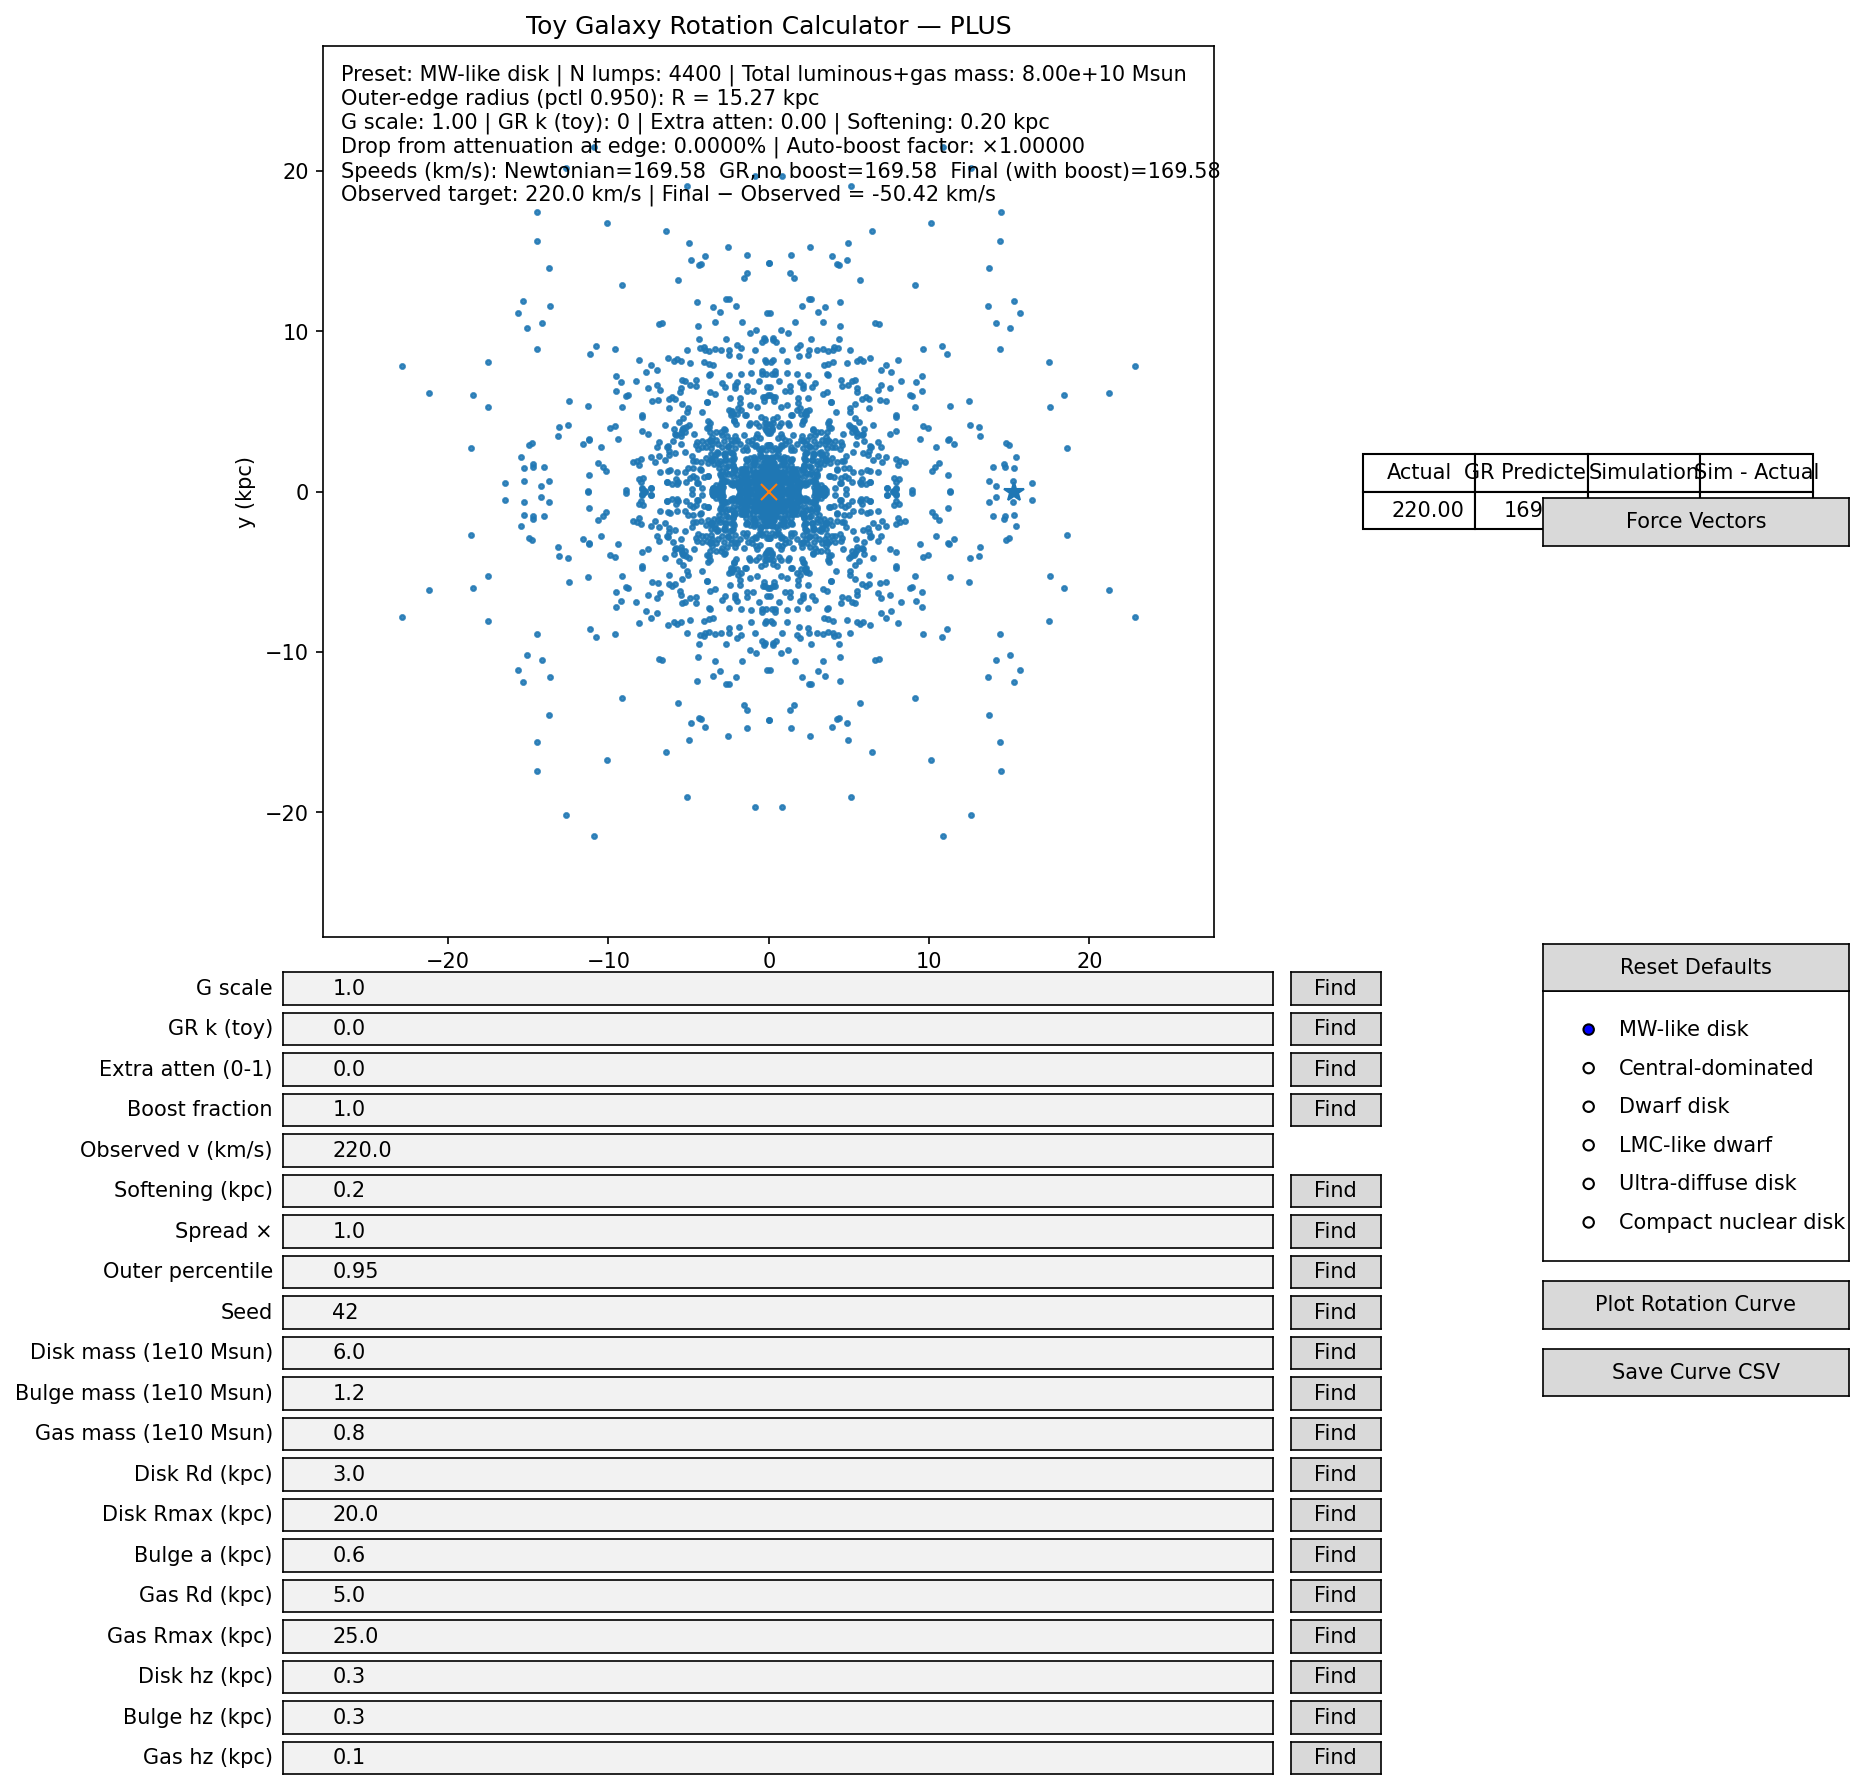
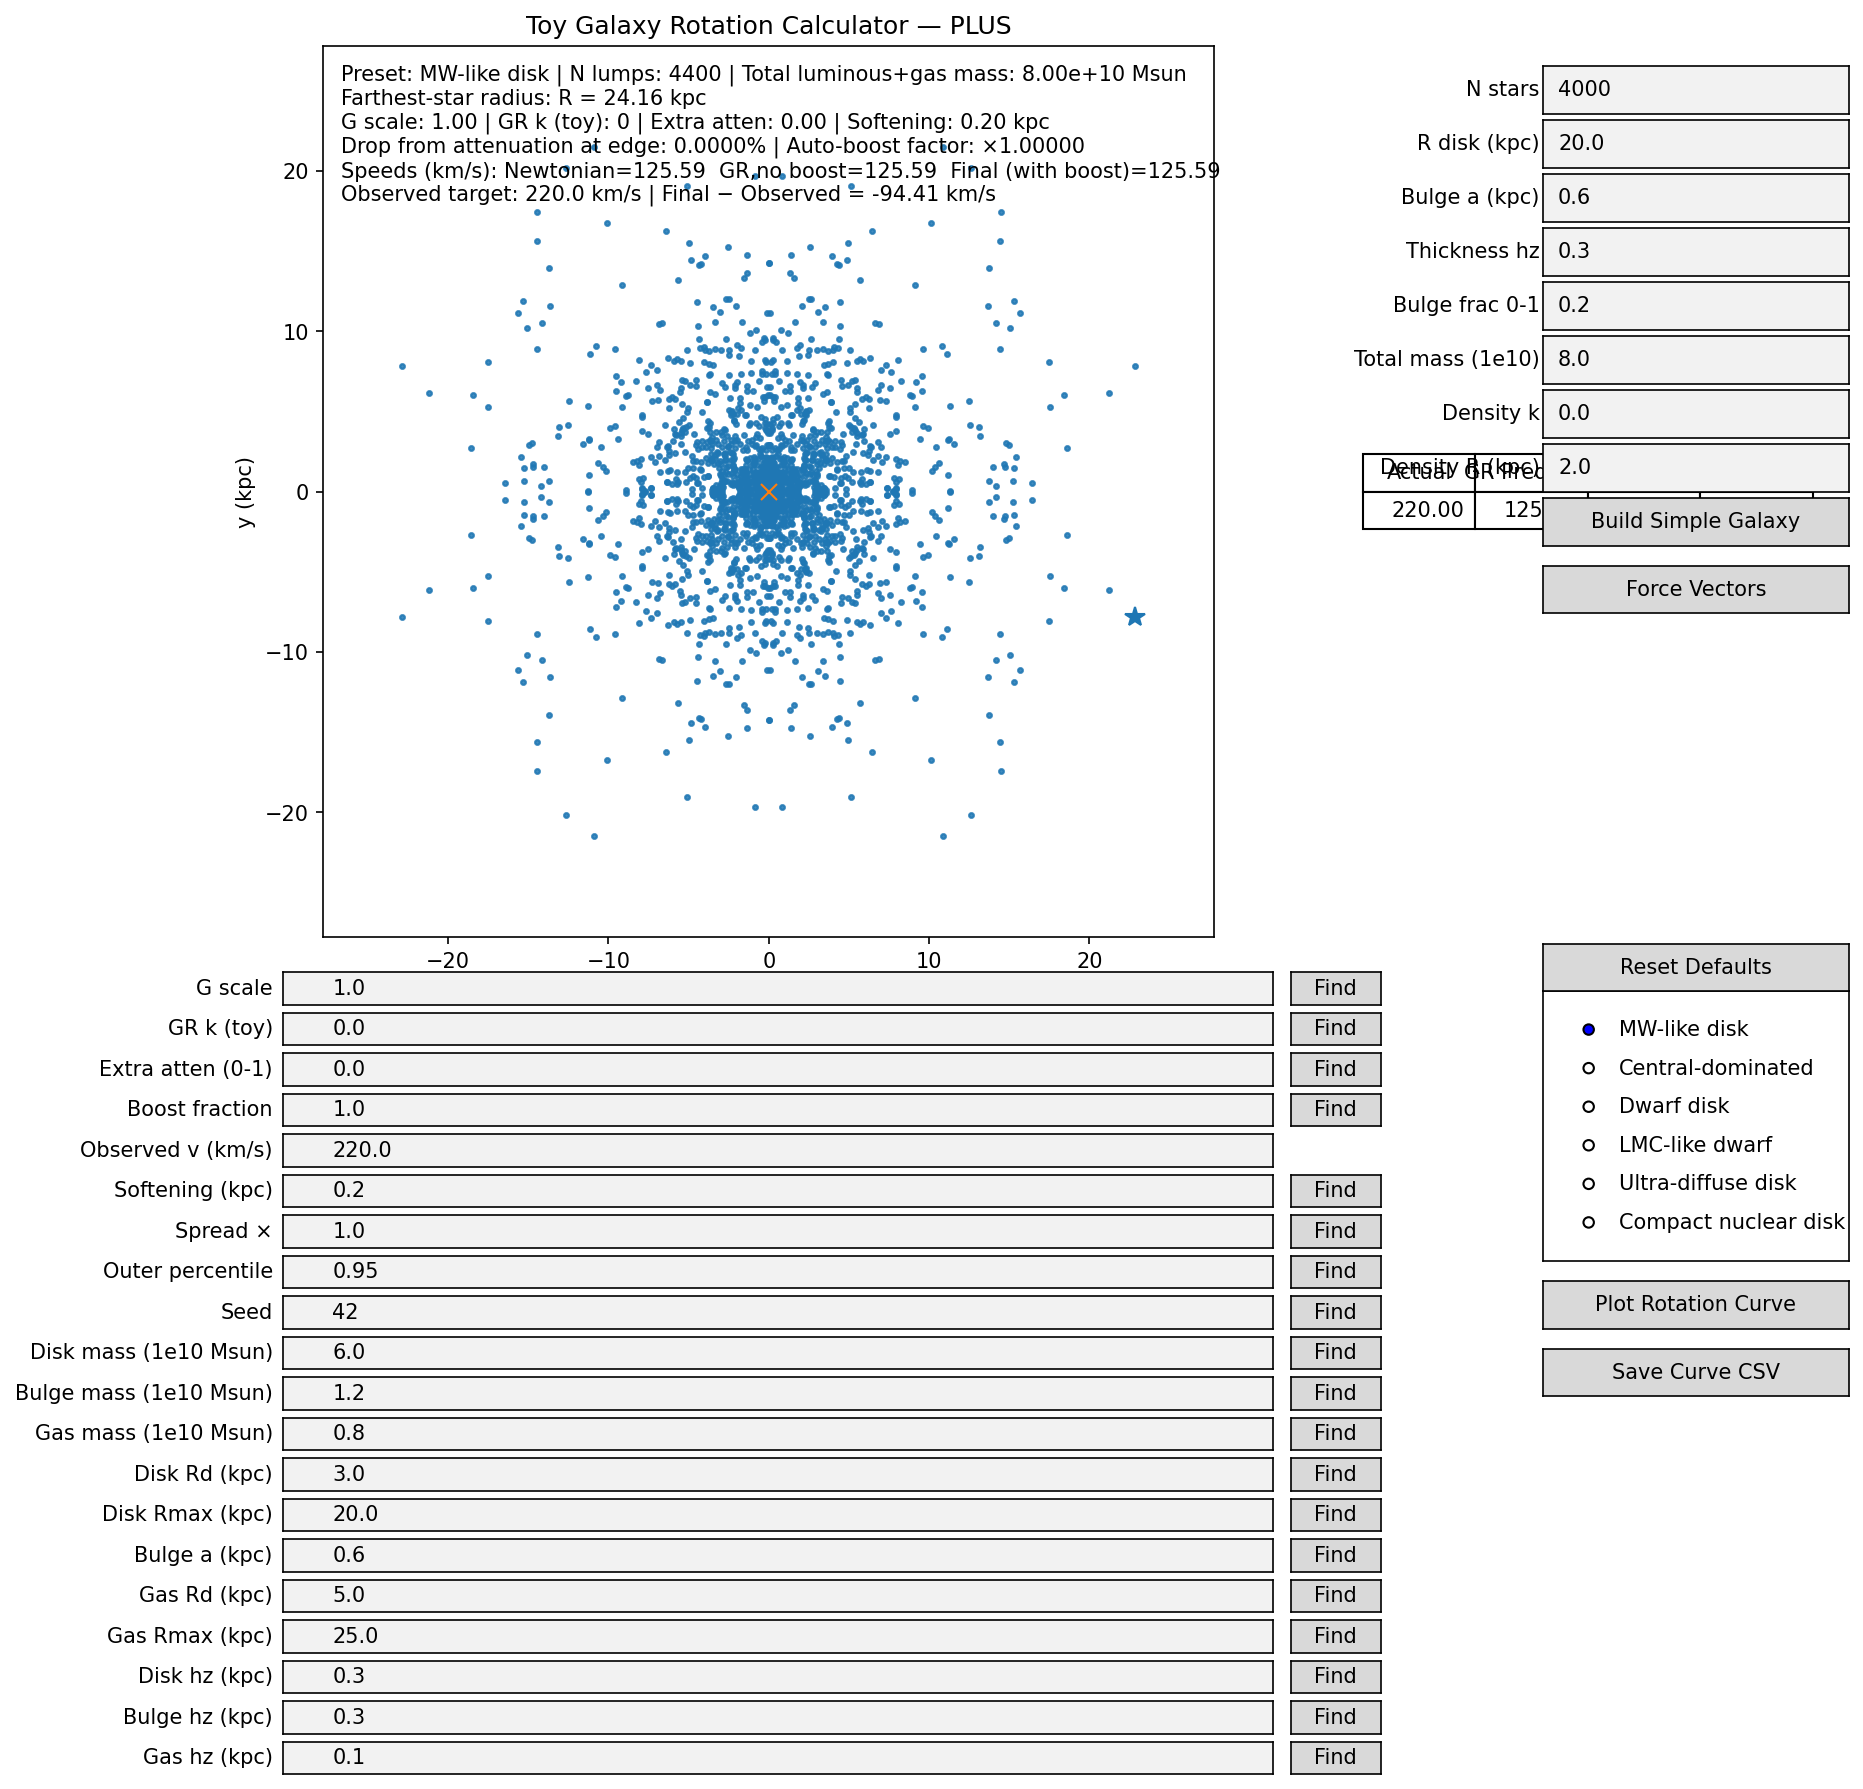
Simplified controls: add simple galaxy builder (N stars, disk radius, bulge a, thickness, bulge fraction, total mass). Auto-select farthest star as test point. Add density-based G modifier (k, R) used in speed, vectors, and rotation curve. Tweaked vectors button position.

diff --git a/toy_galaxy_rotation_calculator_plus.py b/toy_galaxy_rotation_calculator_plus.py
@@ -379,7 +379,7 @@ def main():
     ax_btn_curve = fig.add_axes([0.80, 0.03, 0.17, 0.035]); btn_curve = Button(ax_btn_curve, 'Plot Rotation Curve')
     ax_btn_save  = fig.add_axes([0.80, -0.02, 0.17, 0.035]); btn_save  = Button(ax_btn_save,  'Save Curve CSV')
     # Open vectors table window
-    ax_btn_vectors = fig.add_axes([0.80, 0.61, 0.17, 0.035]); btn_vectors = Button(ax_btn_vectors, 'Force Vectors')
+    ax_btn_vectors = fig.add_axes([0.80, 0.56, 0.17, 0.035]); btn_vectors = Button(ax_btn_vectors, 'Force Vectors')
     # Reset to defaults button
     ax_btn_reset = fig.add_axes([0.80, 0.28, 0.17, 0.035]); btn_reset = Button(ax_btn_reset, 'Reset Defaults')
     
@@ -408,6 +408,75 @@ def main():
         refresh_main()
 
     btn_reset.on_clicked(reset_defaults)
+
+    # ----- Simple controls (right column) -----
+    # Defaults for simple mode
+    simple_defaults = dict(Nstars=4000, Rdisk=20.0, BulgeA=0.6, Hz=0.3, BulgeFrac=0.2, Mtot1e10=8.0, DensK=0.0, DensR=2.0)
+    ax_sN  = fig.add_axes([0.80, 0.93, 0.17, 0.035]); tb_sN  = TextBox(ax_sN,  'N stars',        initial=str(simple_defaults['Nstars']))
+    ax_sR  = fig.add_axes([0.80, 0.89, 0.17, 0.035]); tb_sR  = TextBox(ax_sR,  'R disk (kpc)',   initial=str(simple_defaults['Rdisk']))
+    ax_sBa = fig.add_axes([0.80, 0.85, 0.17, 0.035]); tb_sBa = TextBox(ax_sBa, 'Bulge a (kpc)',  initial=str(simple_defaults['BulgeA']))
+    ax_sHz = fig.add_axes([0.80, 0.81, 0.17, 0.035]); tb_sHz = TextBox(ax_sHz, 'Thickness hz',   initial=str(simple_defaults['Hz']))
+    ax_sBf = fig.add_axes([0.80, 0.77, 0.17, 0.035]); tb_sBf = TextBox(ax_sBf, 'Bulge frac 0-1', initial=str(simple_defaults['BulgeFrac']))
+    ax_sMt = fig.add_axes([0.80, 0.73, 0.17, 0.035]); tb_sMt = TextBox(ax_sMt, 'Total mass (1e10)', initial=str(simple_defaults['Mtot1e10']))
+    ax_sDk = fig.add_axes([0.80, 0.69, 0.17, 0.035]); tb_sDk = TextBox(ax_sDk, 'Density k',      initial=str(simple_defaults['DensK']))
+    ax_sDr = fig.add_axes([0.80, 0.65, 0.17, 0.035]); tb_sDr = TextBox(ax_sDr, 'Density R (kpc)',initial=str(simple_defaults['DensR']))
+    ax_sBuild = fig.add_axes([0.80, 0.61, 0.17, 0.035]); btn_sBuild = Button(ax_sBuild, 'Build Simple Galaxy')
+
+    s_Nstars   = TBWrapper(tb_sN,  parse=int,   clamp=(8, 100000), default=simple_defaults['Nstars'])
+    s_Rdisk    = TBWrapper(tb_sR,  parse=float, clamp=(0.5, 100.0), default=simple_defaults['Rdisk'])
+    s_BulgeA   = TBWrapper(tb_sBa, parse=float, clamp=(0.02, 10.0), default=simple_defaults['BulgeA'])
+    s_Hz       = TBWrapper(tb_sHz, parse=float, clamp=(0.01, 3.0),  default=simple_defaults['Hz'])
+    s_BulgeFrac= TBWrapper(tb_sBf, parse=float, clamp=(0.0, 1.0),   default=simple_defaults['BulgeFrac'])
+    s_Mtot1e10 = TBWrapper(tb_sMt, parse=float, clamp=(0.01, 200.0),default=simple_defaults['Mtot1e10'])
+    s_DensK    = TBWrapper(tb_sDk, parse=float, clamp=(0.0, 5.0),   default=simple_defaults['DensK'])
+    s_DensR    = TBWrapper(tb_sDr, parse=float, clamp=(0.05, 10.0), default=simple_defaults['DensR'])
+
+    def build_simple_galaxy(_evt=None):
+        nonlocal pos, masses, COM, R_all, R_edge, test_point
+        N_total = int(s_Nstars.val)
+        R_disk = float(s_Rdisk.val)
+        a_bulge = float(s_BulgeA.val)
+        hz = float(s_Hz.val)
+        f_bulge = float(s_BulgeFrac.val)
+        N_bulge = max(0, min(N_total, int(round(N_total * f_bulge))))
+        N_disk  = max(0, N_total - N_bulge)
+        rng_seed = int(s_seed.val)
+        rng = np.random.default_rng(rng_seed)
+        pos_list = []; mass_list = []
+        if N_disk > 0:
+            N_base_d = max(1, N_disk // 8)
+            Rd = max(0.05, R_disk / 3.0)
+            pos_d = sample_exponential_disk_3d(N_base_d, Rd, R_disk, hz, rng)
+            if len(pos_d): pos_list.append(pos_d)
+        if N_bulge > 0:
+            N_base_b = max(1, N_bulge // 8)
+            Rmax_b = min(R_disk, max(2.0, 3.0*a_bulge))
+            pos_b = sample_plummer_bulge_3d(N_base_b, a_bulge, Rmax_b, hz, rng)
+            if len(pos_b): pos_list.append(pos_b)
+        if pos_list:
+            pos = np.vstack(pos_list)
+            Mtot = float(s_Mtot1e10.val) * 1e10
+            masses = np.full(len(pos), Mtot / len(pos))
+        else:
+            pos = np.zeros((0,3)); masses = np.zeros((0,))
+        if masses.sum() > 0 and len(masses) > 0:
+            COM = (pos * masses[:, None]).sum(axis=0) / masses.sum()
+            R_all = np.linalg.norm(pos - COM, axis=1)
+            test_point = pos[int(np.argmax(R_all))]
+            R_edge = float(np.max(R_all))
+        else:
+            COM = np.zeros(3); R_all = np.array([1.0]); test_point = np.zeros(3); R_edge = 1.0
+        # Update visuals without triggering advanced rebuild
+        if len(masses) > 0:
+            galaxy_scatter.set_offsets(pos[:, :2])
+            test_star_plot.set_data([test_point[0]], [test_point[1]])
+            com_plot.set_data([COM[0]], [COM[1]])
+            R_plot = np.max(np.linalg.norm(pos[:, :2] - COM[:2], axis=1)) * 1.15 + 1e-3
+            ax.set_xlim(COM[0] - R_plot, COM[0] + R_plot)
+            ax.set_ylim(COM[1] - R_plot, COM[1] + R_plot)
+        update_readout(); fig.canvas.draw_idle(); refresh_rotation_curve()
+
+    btn_sBuild.on_clicked(build_simple_galaxy)
 
     # ---- Finder logic to match Simulation to Actual (Observed v) ----
     def _eval_error_for(wrapper, candidate, is_structural):
@@ -532,17 +601,49 @@ def main():
             hz_disk=float(s_hzd.val), hz_bulge=float(s_hzb.val), hz_gas=float(s_hzg.val))
         pos, masses = make_galaxy_components(int(s_seed.val), float(s_spread.val), **params)
         if masses.sum() <= 0 or len(masses) == 0:
-            COM = np.zeros(3); R_all = np.array([1.0])
+            COM = np.zeros(3); R_all = np.array([1.0]); test_point = np.zeros(3)
         else:
             COM = (pos * masses[:, None]).sum(axis=0) / masses.sum()
-            R_all = np.linalg.norm(pos[:, :2] - COM[:2], axis=1)
-        R_edge = np.quantile(R_all, float(s_outer.val)) if len(R_all) else 1.0
-        test_point = COM + np.array([R_edge, 0.0, 0.0])
+            R_all = np.linalg.norm(pos - COM, axis=1)
+            test_point = pos[int(np.argmax(R_all))]
+        R_edge = np.max(R_all) if len(R_all) else 1.0
+
+    def compute_G_eff(p):
+        # Base G scale
+        G0 = G_AST * float(s_Gscale.val)
+        # Density-based boost: higher when local density is lower than a global reference
+        try:
+            k = float(s_DensK.val)
+            Rn = max(1e-6, float(s_DensR.val))
+        except Exception:
+            k = 0.0; Rn = 1.0
+        if k <= 0 or len(masses) == 0:
+            return G0
+        # Local density around point p
+        d2 = np.sum((pos - p)**2, axis=1)
+        mask = d2 <= (Rn*Rn)
+        m_local = float(masses[mask].sum())
+        vol = (4.0/3.0) * np.pi * (Rn**3)
+        rho_local = m_local / max(1e-30, vol)
+        # Global reference density using farthest-star radius as a characteristic scale
+        if len(masses) > 0:
+            # Use radius enclosing all points around COM
+            Rchar = float(np.max(np.linalg.norm(pos - COM, axis=1)))
+            Vchar = (4.0/3.0) * np.pi * max(1e-30, Rchar**3)
+            rho_ref = float(masses.sum()) / Vchar
+        else:
+            rho_ref = rho_local
+        boost = 0.0
+        if rho_ref > 0:
+            boost = k * max(0.0, (rho_ref / max(rho_local, 1e-30)) - 1.0)
+        # clamp effective G multiplier to a reasonable range
+        mult = max(0.1, min(10.0, 1.0 + boost))
+        return G0 * mult
 
     def compute_speeds_at_point():
-        G_eff_base = G_AST * float(s_Gscale.val)
+        G_eff_here = compute_G_eff(test_point)
         a_gr_vec, a_newton_vec = net_acceleration_at_point(
-            test_point, pos, masses, G_eff_base, k_GR=float(s_kGR.val), atten_extra=float(s_att.val), soften_kpc=float(s_soften.val))
+            test_point, pos, masses, G_eff_here, k_GR=float(s_kGR.val), atten_extra=float(s_att.val), soften_kpc=float(s_soften.val))
         a0 = np.linalg.norm(a_newton_vec); agr = np.linalg.norm(a_gr_vec)
         drop_frac = 0.0
         if a0 > 0:
@@ -557,7 +658,7 @@ def main():
         return v_newton, v_gr_noboost, v_final, drop_frac, boost_factor
 
     def compute_per_body_vectors():
-        G_eff_base = G_AST * float(s_Gscale.val)
+        G_eff_base = compute_G_eff(test_point)
         if len(masses) == 0:
             return {
                 'newton_vecs': np.zeros((0,3)),
@@ -601,11 +702,12 @@ def main():
     def rotation_curve(nR: int = 50):
         if len(masses) == 0:
             return np.array([0.0]), np.zeros(1), np.zeros(1), np.zeros(1)
-        Rmax = np.quantile(np.linalg.norm(pos[:, :2] - COM[:2], axis=1), float(s_outer.val))
+        Rmax = float(np.max(np.linalg.norm(pos - COM, axis=1)))
         R_vals = np.linspace(max(0.2, 0.02*Rmax), Rmax, nR)
-        G_eff_base = G_AST * float(s_Gscale.val)
+        p_edge = COM + np.array([Rmax, 0, 0])
+        G_eff_edge = compute_G_eff(p_edge)
         a_gr_edge, a_newt_edge = net_acceleration_at_point(
-            COM + np.array([Rmax, 0, 0]), pos, masses, G_eff_base, k_GR=float(s_kGR.val), atten_extra=float(s_att.val), soften_kpc=float(s_soften.val))
+            p_edge, pos, masses, G_eff_edge, k_GR=float(s_kGR.val), atten_extra=float(s_att.val), soften_kpc=float(s_soften.val))
         drop_edge = 0.0
         if np.linalg.norm(a_newt_edge) > 0:
             drop_edge = max(0.0, 1.0 - np.linalg.norm(a_gr_edge)/np.linalg.norm(a_newt_edge))
@@ -615,8 +717,9 @@ def main():
         vN, vGR, vF = [], [], []
         for R in R_vals:
             p = COM + np.array([R, 0, 0])
+            G_eff_p = compute_G_eff(p)
             a_gr_vec, a_newton_vec = net_acceleration_at_point(
-                p, pos, masses, G_eff_base, k_GR=float(s_kGR.val), atten_extra=float(s_att.val), soften_kpc=float(s_soften.val))
+                p, pos, masses, G_eff_p, k_GR=float(s_kGR.val), atten_extra=float(s_att.val), soften_kpc=float(s_soften.val))
             vN.append(circular_speed_from_accel(a_newton_vec, p - COM))
             vGR.append(circular_speed_from_accel(a_gr_vec, p - COM))
             vF.append(circular_speed_from_accel(a_gr_vec * boost_factor, p - COM))
@@ -632,9 +735,10 @@ def main():
         ax.set_xlim(COM[0] - R_plot, COM[0] + R_plot)
         ax.set_ylim(COM[1] - R_plot, COM[1] + R_plot)
         total_mass = masses.sum()
+        far_r = float(np.linalg.norm(test_point[:2] - COM[:2]))
         lines = [
             f"Preset: {radio.value_selected} | N lumps: {len(masses)} | Total luminous+gas mass: {total_mass:,.2e} Msun",
-            f"Outer-edge radius (pctl {s_outer.val:.3f}): R = {np.linalg.norm(test_point[:2] - COM[:2]):.2f} kpc",
+            f"Farthest-star radius: R = {far_r:.2f} kpc",
             f"G scale: {s_Gscale.val:.2f} | GR k (toy): {s_kGR.val:.0f} | Extra atten: {s_att.val:.2f} | Softening: {s_soften.val:.2f} kpc",
             f"Drop from attenuation at edge: {100*drop_frac:.4f}% | Auto-boost factor: ×{boost_factor:.5f}",
             f"Speeds (km/s): Newtonian={v_newton:.2f}  GR,no boost={v_gr_noboost:.2f}  Final (with boost)={v_final:.2f}",
